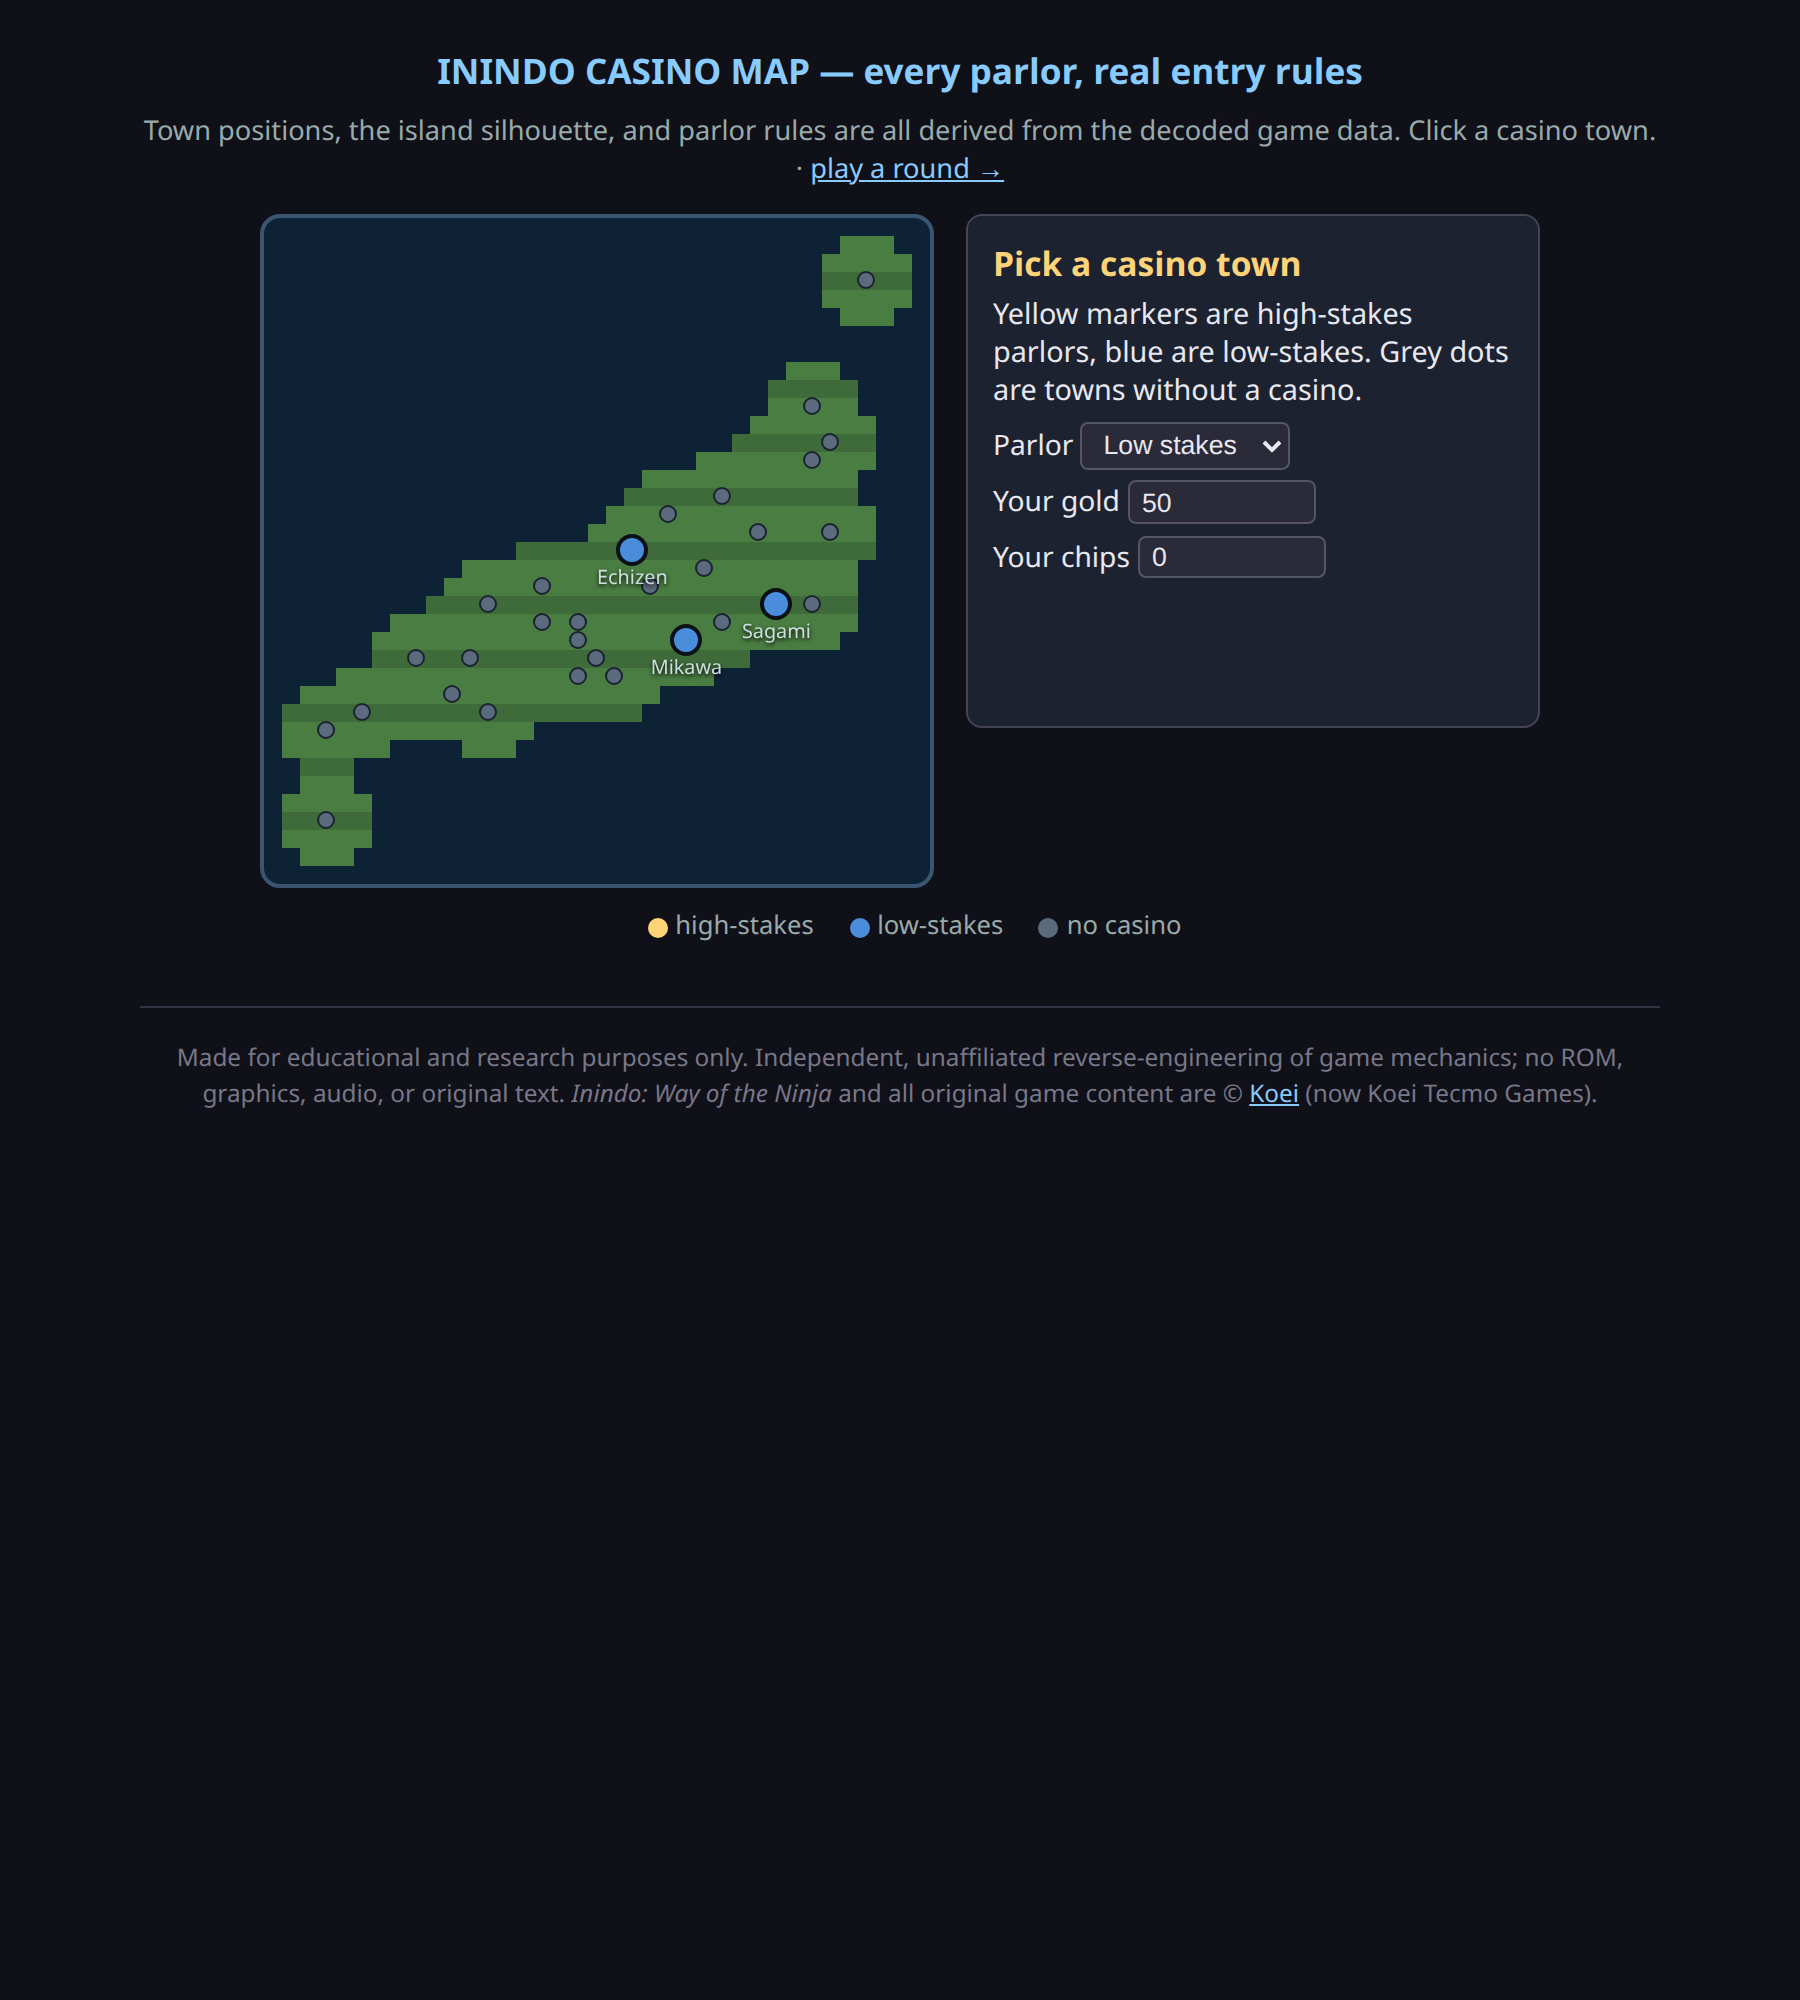
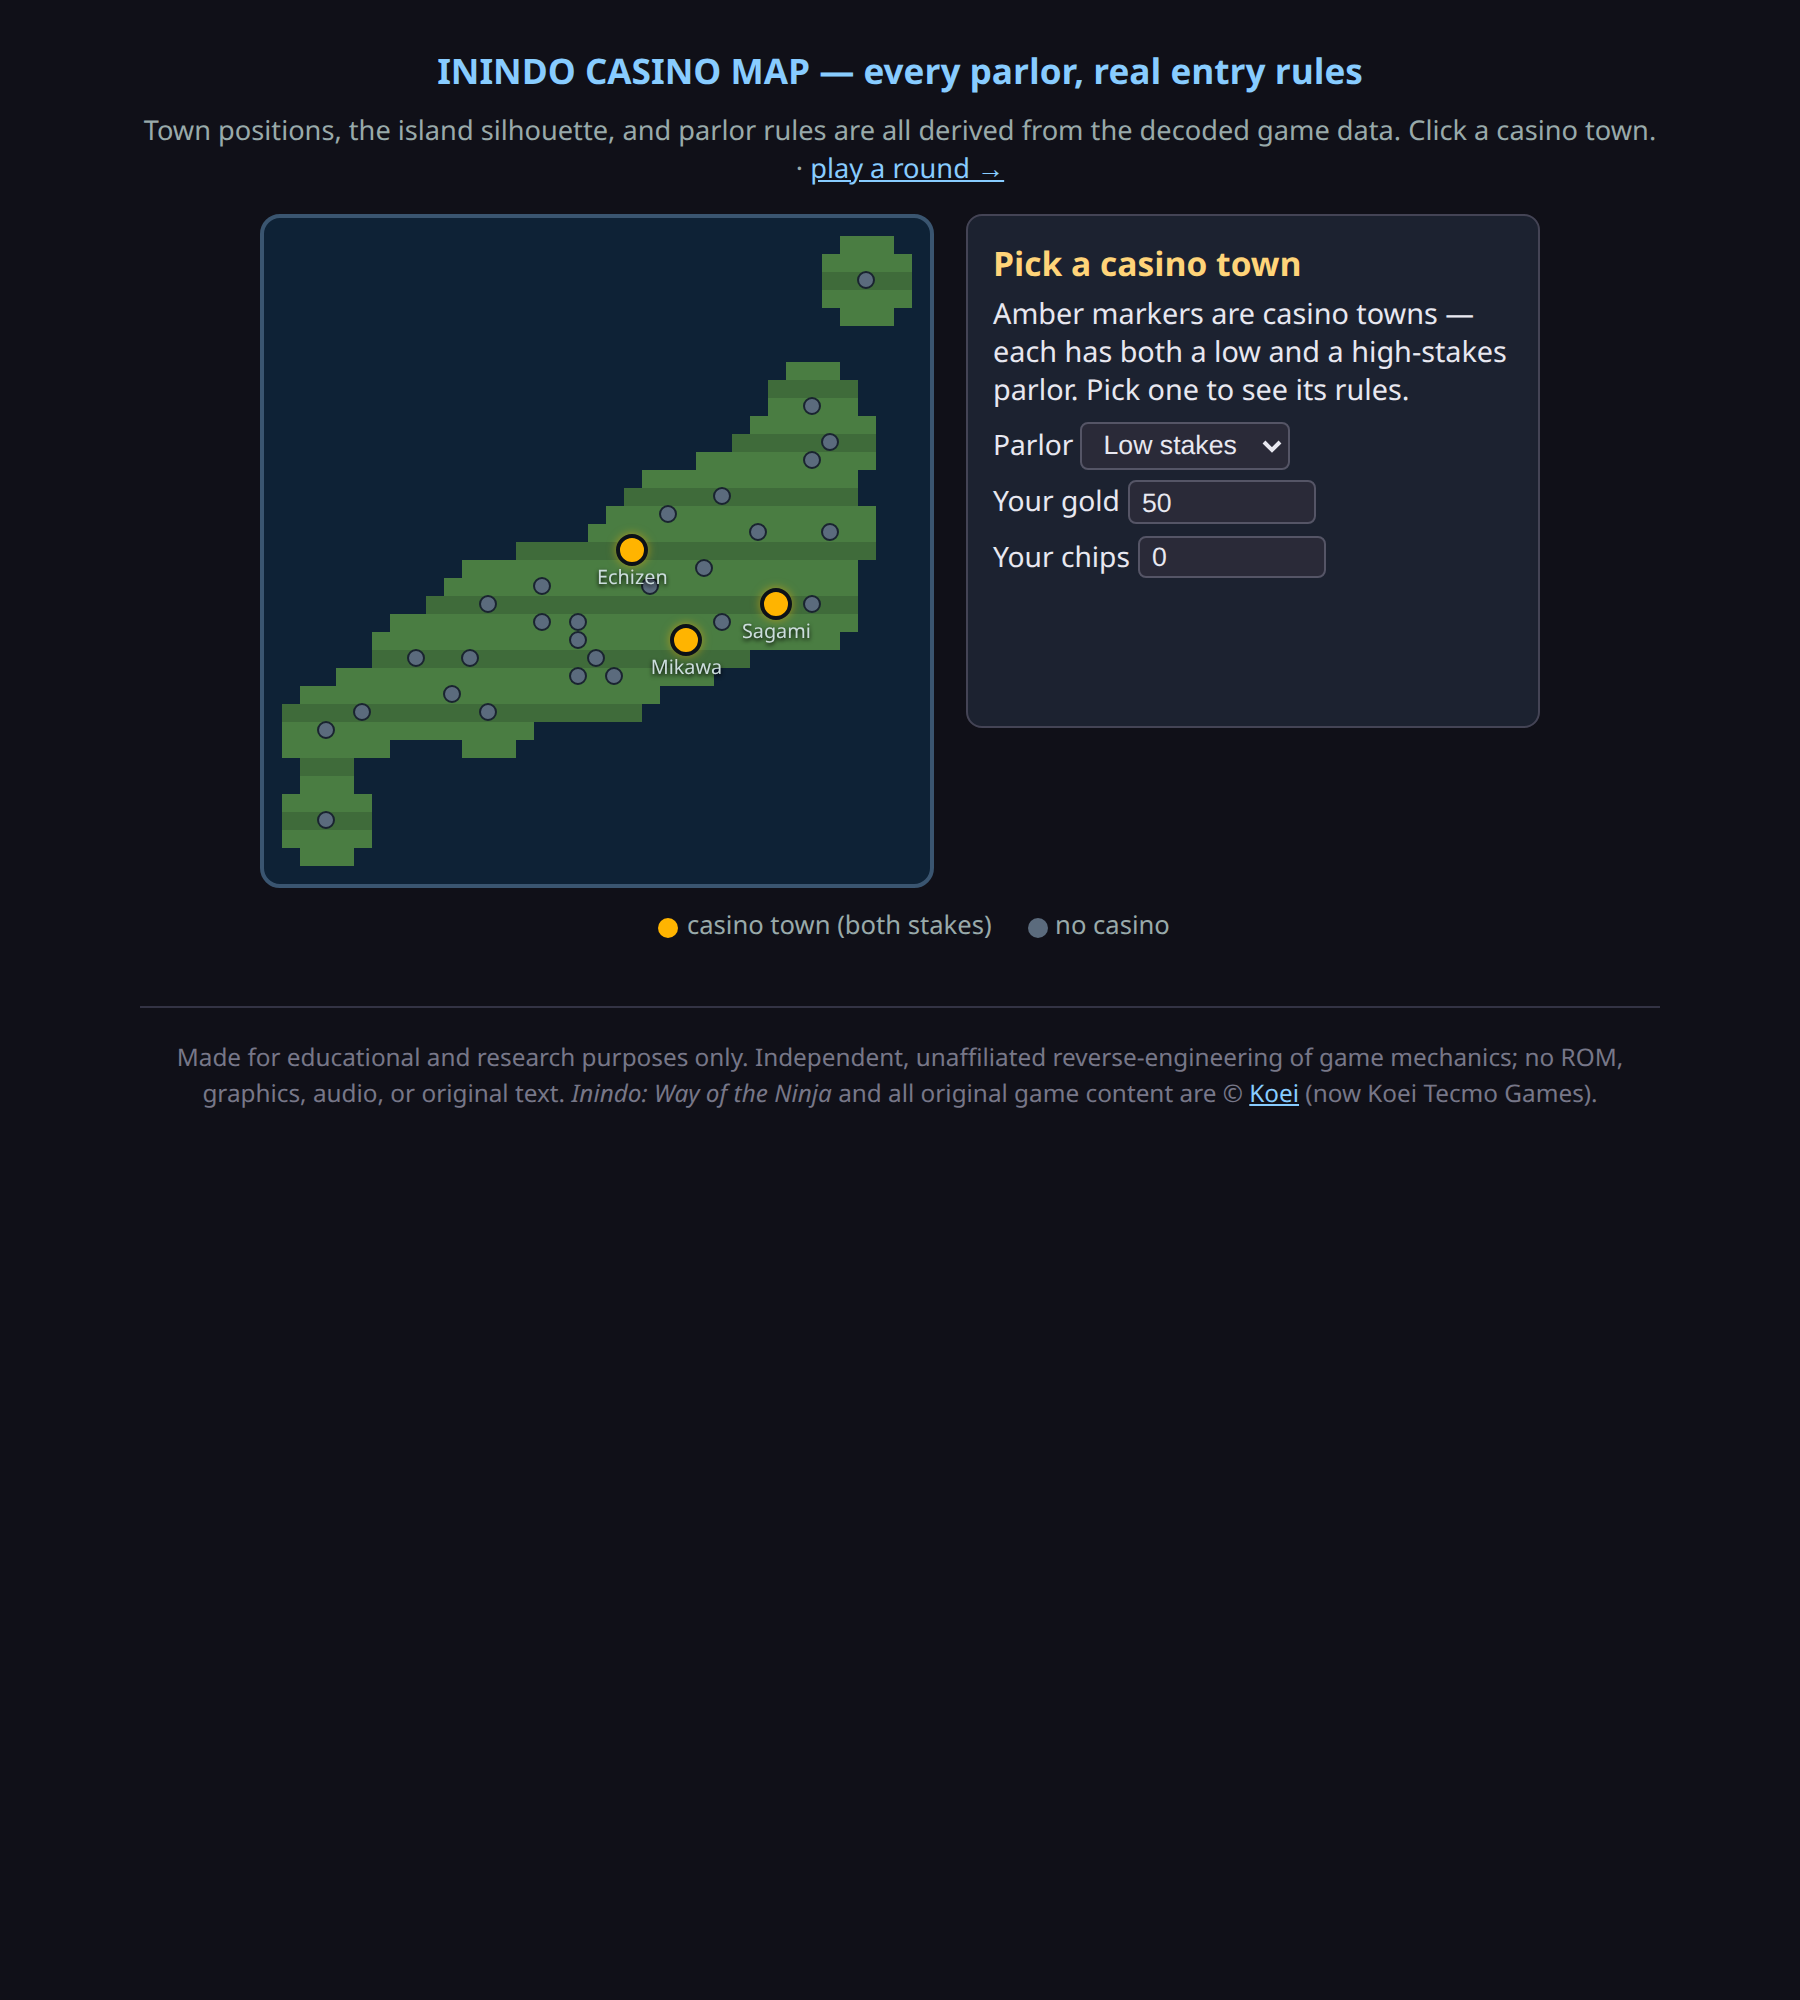
fix: single casino marker color on the map; each town has both stakes
Casino dots were recolored by the global parlor dropdown, implying a town
was low- or high-stakes only. All three casino towns offer both, so they
now use one amber marker; the parlor selector only previews each stakes'
rules in the panel. Legend and copy updated; demo artifacts refreshed.

diff --git a/map.html b/map.html
@@ -12,8 +12,7 @@
   #land { position: absolute; left: 0; top: 0; image-rendering: pixelated; }
   .town { position: absolute; transform: translate(-50%, -50%); border-radius: 50%; box-sizing: border-box; }
   .dot { width: 9px; height: 9px; background: #5b6b7d; border: 1px solid #1a2430; }
-  .casino { width: 16px; height: 16px; cursor: pointer; border: 2px solid #0c1118; }
-  .casino.low { background: #4a8edb; } .casino.high { background: #ffd479; }
+  .casino { width: 16px; height: 16px; cursor: pointer; border: 2px solid #0c1118; background: #ffb400; box-shadow: 0 0 5px #ffb40088; }
   .casino:hover { border-color: #fff; }
   .casino.sel { border-color: #6f6; box-shadow: 0 0 6px #6f6; }
   .label { position: absolute; transform: translate(-50%, 6px); font-size: .62rem; color: #cdd; white-space: nowrap; pointer-events: none; text-shadow: 0 1px 2px #000; }
@@ -38,7 +37,7 @@
   <div id="map"></div>
   <div id="panel">
     <h2 id="townName">Pick a casino town</h2>
-    <div class="row" id="townInfo">Yellow markers are high-stakes parlors, blue are low-stakes. Grey dots are towns without a casino.</div>
+    <div class="row" id="townInfo">Amber markers are casino towns — each has both a low and a high-stakes parlor. Pick one to see its rules.</div>
     <label>Parlor
       <select id="parlor"><option value="low">Low stakes</option><option value="high">High stakes</option></select>
     </label>
@@ -47,7 +46,7 @@
     <div class="verdict" id="verdict"></div>
   </div>
 </div>
-<p class="legend"><b style="background:#ffd479"></b>high-stakes <b style="background:#4a8edb"></b>low-stakes <b style="background:#5b6b7d"></b>no casino</p>
+<p class="legend"><b style="background:#ffb400"></b>casino town (both stakes) <b style="background:#5b6b7d"></b>no casino</p>
 
 <footer>
   Made for educational and research purposes only. Independent, unaffiliated
@@ -134,8 +133,7 @@ function render() {
     const px = cellX(t.gx), py = cellY(t.gy);
     const dot = document.createElement("div");
     if (t.casino) {
-      const high = $("parlor").value === "high";
-      dot.className = "town casino " + (high ? "high" : "low");
+      dot.className = "town casino"; // every casino town offers both stakes
       if (t === selected) dot.classList.add("sel");
       dot.addEventListener("click", () => { showTown(t); render(); });
       const lab = document.createElement("div");
@@ -155,7 +153,7 @@ await init();
 towns = (await (await fetch("towns.json")).json()).towns;
 grid = await (await fetch("japan-grid.json")).json();
 render();
-$("parlor").addEventListener("change", () => { render(); if (selected) showTown(selected); });
+$("parlor").addEventListener("change", () => { if (selected) showTown(selected); });
 for (const el of ["gold", "chips"]) $(el).addEventListener("input", () => selected && showTown(selected));
 </script>
 </body>
